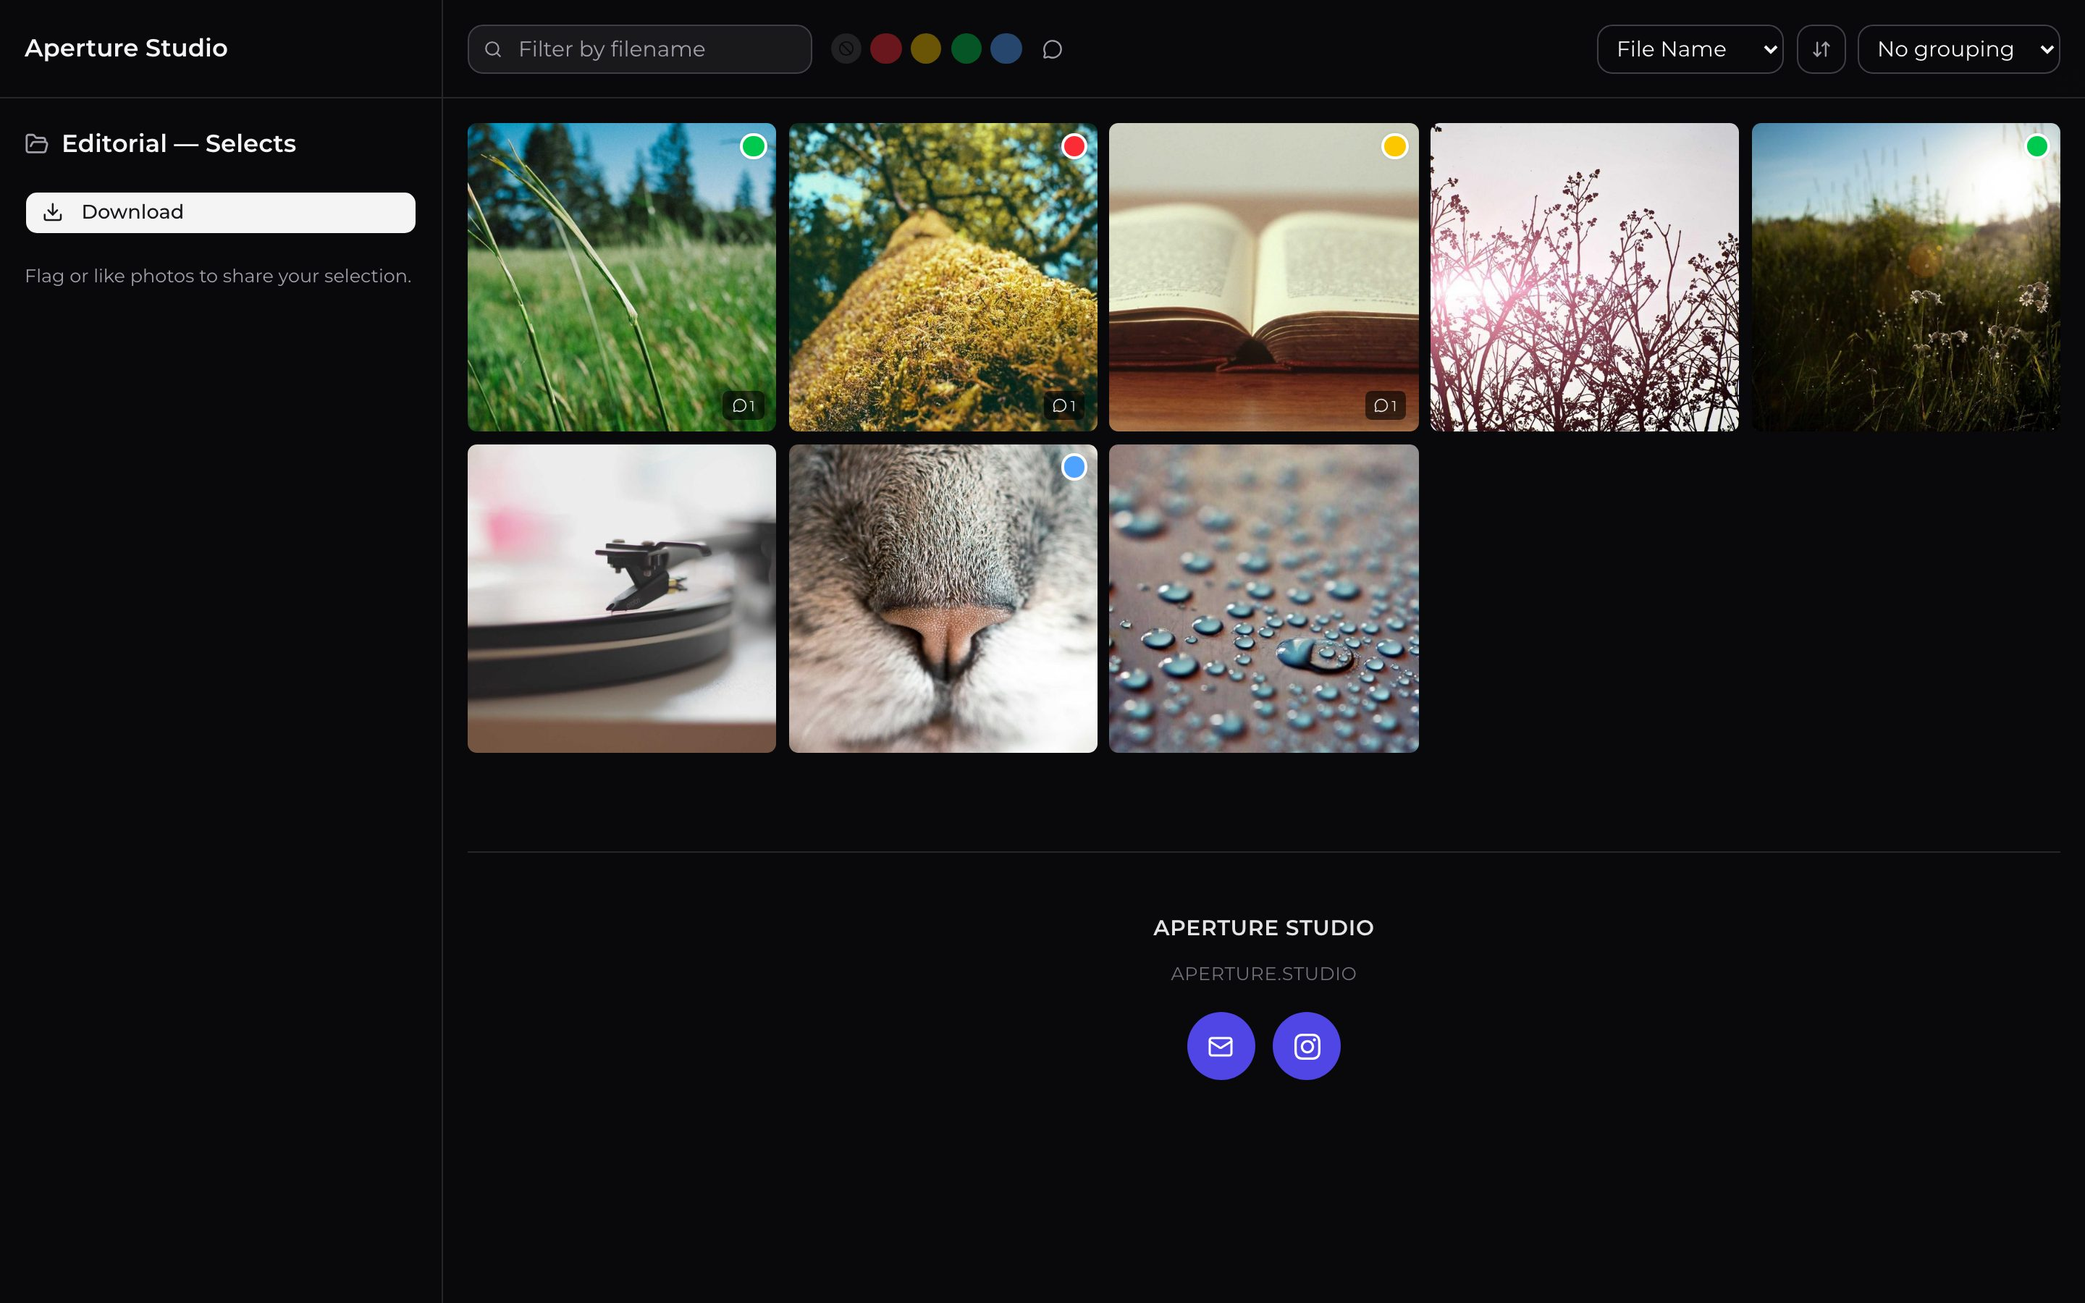
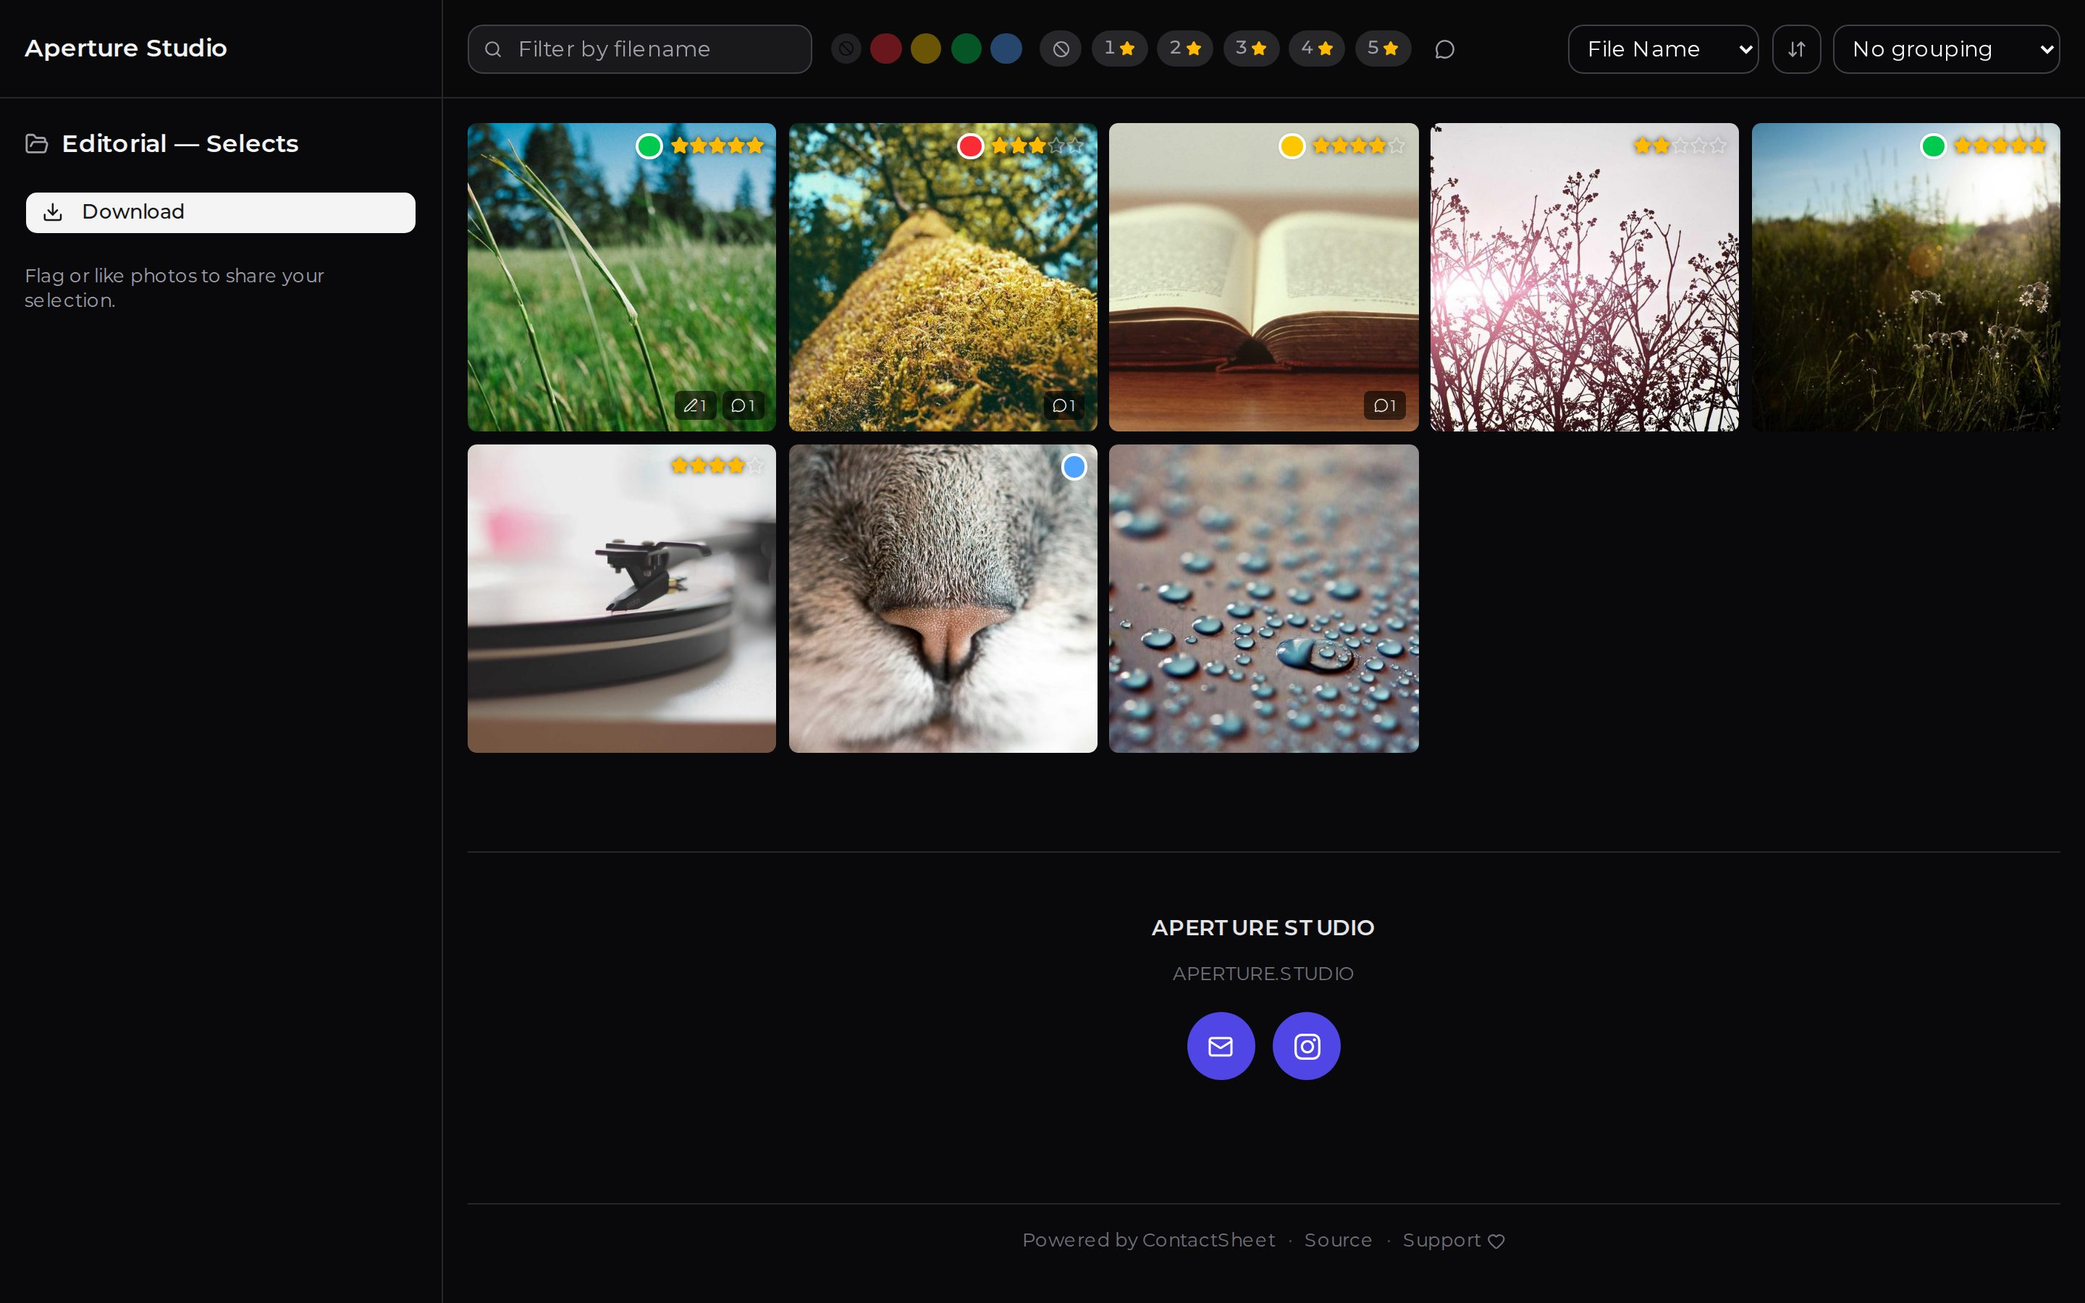
docs: refresh screenshots for v1.14 and update README highlights
- Re-capture all 12 scenes against the current UI and add three:
  13 analytics, 14 review lightbox (flags + stars, annotation, zoom),
  15 overview as list rows.
- Demo seed: rating style "both" with star ratings, a freehand
  annotation, IP logging on, camera-style file names, and 60 days of
  backdated activity so analytics shows real trends; only the review
  gallery carries the "New" marker.
- Demo ports overridable via DEMO_API_PORT / DEMO_WEB_PORT; stop() now
  takes down `next dev` with npm (own process group) instead of
  leaving it listening.
- README: new-activity marker and overview views, duplicate-filename
  uploads, large client uploads, watermark vs. downloads, analytics.

Claude-Session: https://claude.ai/code/session_01Mt1P5GrvZtBqV8ckNBeZAW

diff --git a/demo/seed_demo.py b/demo/seed_demo.py
@@ -13,9 +13,14 @@ Run:  backend/.venv/bin/python demo/seed_demo.py
 from __future__ import annotations
 
 import json
+import math
+import random
 import shutil
+import sqlite3
 import sys
 import time
+import uuid
+from datetime import datetime, timedelta, timezone
 
 import httpx
 
@@ -37,7 +42,12 @@ from _common import (  # noqa: E402
 
 def _assets(folder: str) -> list:
     files = sorted((ASSETS / folder).glob("*.jpg"))
-    return [("files", (f.name, f.read_bytes(), "image/jpeg")) for f in files]
+    prefix = manifest.FILENAME_PREFIX.get(folder, "IMG_")
+    start = 1000 + 37 * len(folder)  # arbitrary but stable "frame counter" per shoot
+    return [
+        ("files", (f"{prefix}{start + 3 * i:04d}.jpg", f.read_bytes(), "image/jpeg"))
+        for i, f in enumerate(files)
+    ]
 
 
 def _wait_for_processing(client: httpx.Client, gid: str, expected: int) -> None:
@@ -102,6 +112,8 @@ def _seed_collab(client: httpx.Client, spec: dict, state: dict) -> None:
     base = f"/api/public/g/{token}/images"
     for i, flag in collab.get("flags", {}).items():
         client.post(f"{base}/{img(i)}/flag", json={"flag": flag}).raise_for_status()
+    for i, stars in collab.get("ratings", {}).items():
+        client.post(f"{base}/{img(i)}/rate", json={"rating": stars}).raise_for_status()
     for reviewer, idxs in collab.get("likes", {}).items():
         for i in idxs:
             client.post(f"{base}/{img(i)}/like", json={"reviewer": reviewer}).raise_for_status()
@@ -110,7 +122,67 @@ def _seed_collab(client: httpx.Client, spec: dict, state: dict) -> None:
             f"{base}/{img(c['image'])}/comments",
             json={"author_name": c["author"], "text": c["text"]},
         ).raise_for_status()
+    for a in collab.get("annotations", []):
+        e = a["ellipse"]
+        points = [
+            {"x": round(e["cx"] + e["rx"] * math.cos(t), 4), "y": round(e["cy"] + e["ry"] * math.sin(t), 4)}
+            for t in (2 * math.pi * k / 48 for k in range(49))
+        ]
+        client.post(
+            f"{base}/{img(a['image'])}/comments",
+            json={
+                "author_name": a["author"],
+                "text": a["text"],
+                "anchor": {"type": "freehand", "points": points, "color": "#ef4444"},
+            },
+        ).raise_for_status()
     print(f"  collaboration seeded on '{spec['name']}'")
+
+
+def _seed_history(state: dict) -> None:
+    """Backdate a couple of months of plausible client activity straight into the demo DB (backend stopped),
+    so the analytics charts show a trend instead of a single spike on seed day. Deterministic."""
+    rng = random.Random(2024)
+    now = datetime.now(timezone.utc).replace(tzinfo=None)
+    rows = []
+    for key in manifest.HISTORY_GALLERIES:
+        g = state["galleries"][key]
+        weight = 3 if key == "editorial" else 1
+        for day in range(1, manifest.HISTORY_DAYS + 1):
+            # A slow upward drift plus a delivery spike ~10 days ago, with day-to-day noise.
+            drift = 0.9 + 0.4 * (1 - day / manifest.HISTORY_DAYS)
+            base = weight * (drift + 0.9 * math.exp(-((day - 10) ** 2) / 30))
+            for action, scale, author_pool in (
+                ("viewed", 2.0, ["Guest"]),
+                ("downloaded", 0.25, ["Guest"]),
+                ("flagged", 0.5, manifest.HISTORY_REVIEWERS),
+                ("liked", 0.6, manifest.HISTORY_REVIEWERS),
+                ("rated", 0.4, manifest.HISTORY_REVIEWERS),
+                ("commented", 0.15, manifest.HISTORY_REVIEWERS),
+            ):
+                if action not in ("viewed", "downloaded") and key != "editorial":
+                    continue
+                for _ in range(max(0, round(rng.gauss(base * scale, base * scale / 3)))):
+                    ts = now - timedelta(days=day, seconds=rng.randint(0, 86399))
+                    image_id = (
+                        rng.choice(g["image_ids"]) if action not in ("viewed", "downloaded") and g["image_ids"] else None
+                    )
+                    ip = f"198.51.100.{rng.randint(2, 250)}" if action in ("viewed", "downloaded") else None
+                    rows.append((str(uuid.uuid4()), g["id"], image_id, action, rng.choice(author_pool), None, ip,
+                                 ts.strftime("%Y-%m-%d %H:%M:%S.%f")))
+    con = sqlite3.connect(DATA / "demo.db")
+    with con:
+        con.executemany(
+            "INSERT INTO activities (id, gallery_id, image_id, action, author, meta, ip, created_at)"
+            " VALUES (?, ?, ?, ?, ?, ?, ?, ?)",
+            rows,
+        )
+        # Mark everything but the review gallery as already opened, so only it shows "New".
+        seen = (datetime.now(timezone.utc).replace(tzinfo=None) + timedelta(seconds=1)).strftime("%Y-%m-%d %H:%M:%S.%f")
+        ids = [state["galleries"][k]["id"] for k in manifest.SEEN_GALLERIES]
+        con.executemany("UPDATE galleries SET admin_seen_at = ? WHERE id = ?", [(seen, i) for i in ids])
+    con.close()
+    print(f"  {len(rows)} backdated activity rows written")
 
 
 def seed() -> None:
@@ -155,6 +227,7 @@ def main() -> None:
         seed()
     finally:
         stop(backend)
+    _seed_history(json.loads(STATE_FILE.read_text()))
     print("Seed complete; backend stopped.")
 
 

diff --git a/demo/manifest.py b/demo/manifest.py
@@ -19,6 +19,10 @@ SETTINGS = {
     "brand_display": "name_only",
     "accent_color": "#4f46e5",
     "accent_gradient": True,
+    # Show colour flags and 1–5 stars side by side in the review screenshots.
+    "rating_mode": "both",
+    # Views only count (and the analytics view tiles only light up) with IP logging on.
+    "activity_ip_logging": True,
     "footer_enabled": True,
     "footer": {
         "business_name": "Aperture Studio",
@@ -59,16 +63,25 @@ GALLERIES = [
             "color_flags_enabled": True,
             "likes_enabled": True,
             "comments_enabled": True,
+            "annotations_enabled": True,
         },
         # Collaboration content (references images by upload index). 3 comments total → matches
         # the comment badge on the gallery card.
         "collab": {
             "flags": {0: "green", 1: "red", 2: "yellow", 4: "green", 6: "blue"},
-            "likes": {"Mara Voss": [0, 2, 5, 7], "Jon Adler": [0, 1, 3]},
+            "ratings": {0: 5, 1: 3, 2: 4, 3: 2, 4: 5, 5: 4},
+            "likes": {"Mara Voss": [0, 2, 5], "Jon Adler": [0, 1, 3]},
             "comments": [
                 {"image": 0, "author": "Mara Voss", "text": "Love the contrast here — this is the select."},
                 {"image": 1, "author": "Jon Adler", "text": "Crop a touch tighter on the next pass?"},
                 {"image": 2, "author": "Mara Voss", "text": "Final pick for the cover."},
+            ],
+            # Freehand annotations: (image index, author, text, [(x, y), ...] in 0..1 fractions).
+            "annotations": [
+                {
+                    "image": 0, "author": "Jon Adler", "text": "Can we lift the shadows a little here?",
+                    "ellipse": {"cx": 0.32, "cy": 0.62, "rx": 0.12, "ry": 0.09},
+                },
             ],
         },
     },
@@ -94,4 +107,18 @@ SCENES = {
     "collaboration": "editorial",      # 09 collaboration review
     "footer": "coastal",               # 11 public footer
     "mobile": "coastal",               # 12 mobile gallery
+    "analytics": "editorial",          # 13 per-gallery analytics (+ 30 days of synthetic history)
+    "review_lightbox": "editorial",    # 14 review lightbox: flags + stars, annotation, zoom
 }
+
+# Synthetic, backdated activity history so the analytics charts have a shape. Written straight
+# into the demo DB after the API seed (the API only ever stamps "now"). Deterministic.
+# 60 days so the 30-day window has a previous period to compare against (plausible trend %).
+HISTORY_DAYS = 60
+HISTORY_GALLERIES = ["editorial", "coastal", "iceland", "studio"]
+HISTORY_REVIEWERS = REVIEWERS + ["Lena Brandt"]
+# Galleries the photographer has "opened" since their last client activity (no "New" marker).
+SEEN_GALLERIES = ["coastal", "iceland", "sessions", "studio", "location"]
+
+# Uploaded file names: camera-style instead of the asset pool's 00.jpg, 01.jpg, …
+FILENAME_PREFIX = {"editorial": "ED24_", "coastal": "CL_", "iceland": "ISL_", "studio": "STU_", "location": "LOC_"}

diff --git a/demo/capture_screenshots.py b/demo/capture_screenshots.py
@@ -1,10 +1,10 @@
 # SPDX-FileCopyrightText: 2026 Niels Franke
 # SPDX-License-Identifier: AGPL-3.0-or-later
-"""Recapture the 12 documentation screenshots against the seeded demo instance.
+"""Recapture the 15 documentation screenshots against the seeded demo instance.
 
 Launches the demo backend (:8099, against the already-seeded demo/.data) and a demo Next dev
 server (:3099, proxied to the demo backend via NEXT_PUBLIC_API_BASE), then drives Playwright
-(chromium) through the 12 scenes and writes docs/screenshots/*.jpg. Run `seed_demo.py` first.
+(chromium) through the 15 scenes and writes docs/screenshots/*.jpg. Run `seed_demo.py` first.
 
 Run:  backend/.venv/bin/python demo/capture_screenshots.py
 """
@@ -111,6 +111,16 @@ def run(state: dict) -> None:
             except Exception as e:
                 print(f"  ! 02: {e}")
 
+            # 15 — overview as list rows (the view switch persists as a setting → flip back after)
+            try:
+                page.get_by_role("button", name="Show as list").first.click()
+                page.wait_for_timeout(1200)
+                shot(page, "15-overview-list")
+                page.get_by_role("button", name="Show as grid").first.click()
+                page.wait_for_timeout(800)
+            except Exception as e:
+                print(f"  ! 15: {e}")
+
             # 03 — create gallery dialog
             try:
                 page.get_by_role("button", name="New Gallery").first.click()
@@ -137,6 +147,15 @@ def run(state: dict) -> None:
                 page.keyboard.press("Escape")
             except Exception as e:
                 print(f"  ! 10: {e}")
+
+            # 13 — instance analytics (30-day window over the seeded history)
+            try:
+                go("/admin/analytics")
+                page.get_by_text("Busiest galleries").first.wait_for()
+                page.wait_for_timeout(800)
+                shot(page, "13-analytics")
+            except Exception as e:
+                print(f"  ! 13: {e}")
 
             # 07 — admin settings (branding)
             try:
@@ -178,6 +197,18 @@ def run(state: dict) -> None:
             shot(page, "09-collaboration-review")
         except Exception as e:
             print(f"  ! 09: {e}")
+
+        # 14 — review lightbox: flags + stars, an annotation, the comment thread and the zoom slider
+        try:
+            page.locator("button:has(img)").first.click()
+            page.wait_for_timeout(1200)
+            page.get_by_role("button", name="Show annotations").first.click()
+            page.get_by_role("button", name="Comments").last.click()
+            page.wait_for_timeout(1200)
+            shot(page, "14-review-lightbox")
+            page.keyboard.press("Escape")
+        except Exception as e:
+            print(f"  ! 14: {e}")
 
         # 11 — branding footer (scroll to bottom, clip the footer)
         try:

diff --git a/demo/_common.py b/demo/_common.py
@@ -9,6 +9,7 @@ Everything runs against an **isolated** backend on port 8099 with its own data d
 from __future__ import annotations
 
 import os
+import signal
 import subprocess
 import time
 import urllib.request
@@ -25,8 +26,9 @@ DATA = DEMO_DIR / ".data"          # runtime DB + uploads (gitignored)
 STATE_FILE = DATA / "state.json"
 
 API_HOST = "127.0.0.1"
-API_PORT = 8099
-WEB_PORT = 3099
+# Override with DEMO_API_PORT / DEMO_WEB_PORT when 8099/3099 are taken on this machine.
+API_PORT = int(os.environ.get("DEMO_API_PORT", "8099"))
+WEB_PORT = int(os.environ.get("DEMO_WEB_PORT", "3099"))
 API_BASE = f"http://{API_HOST}:{API_PORT}"
 WEB_BASE = f"http://{API_HOST}:{WEB_PORT}"
 
@@ -114,6 +116,7 @@ def start_frontend() -> subprocess.Popen:
         ["npm", "run", "dev", "--", "--port", str(WEB_PORT)],
         cwd=WEBDIR,
         env=env,
+        start_new_session=True,  # own process group → stop() can take `next dev` down with npm
     )
     _wait_http(f"{WEB_BASE}/login", "frontend", timeout=180)
     return proc
@@ -136,8 +139,16 @@ def _wait_http(url: str, name: str, timeout: int = 45) -> None:
 def stop(proc: subprocess.Popen | None) -> None:
     if proc is None:
         return
-    proc.terminate()
+    # `npm run dev` doesn't forward SIGTERM to `next dev`; signal the whole group when it has one.
     try:
+        pgid = os.getpgid(proc.pid)
+    except ProcessLookupError:
+        return
+    own_group = pgid == proc.pid
+    try:
+        os.killpg(pgid, signal.SIGTERM) if own_group else proc.terminate()
         proc.wait(timeout=10)
     except subprocess.TimeoutExpired:
-        proc.kill()
+        os.killpg(pgid, signal.SIGKILL) if own_group else proc.kill()
+    except ProcessLookupError:
+        pass

diff --git a/README.md b/README.md
@@ -52,13 +52,15 @@ are very welcome.
 - **Client feedback** — color flags, 1–5 star ratings, or **both side by side** (an instance-wide choice), per-person likes, comments, and **freehand annotations** drawn right on a photo — with a zoom slider in the review lightbox so clients can check detail before deciding.
 - **Collections** — multi-select photos into named, downloadable sets; admin *and* clients can build them.
 - **Content search** *(optional)* — find photos by what's *in* them ("car at sunset"), in a gallery or across your whole library, via an opt-in on-device AI model. Without it, **All Photos** still browses everything and filters by name, gallery, and IPTC keywords.
-- **Client uploads** — optionally let visitors contribute photos, with an optional **approval queue**.
+- **Client uploads** — optionally let visitors contribute photos, with an optional **approval queue**; opt in per gallery to accept large originals and PSD/PSB/TIFF working files.
 - **Nested galleries** — organize shoots to any depth, with drag-and-drop reparenting and photo moves.
+- **An admin that tells you what changed** — galleries with client activity since your last visit are marked *New*; the overview switches between grid, compact and list, and folders show a mosaic of their sub-galleries' covers.
+- **Safe re-uploads** — uploading a filename that's already in the gallery asks *Replace / Keep both / Skip*; *Replace* keeps the photo's comments, ratings and cover status.
 - **Sharing controls** — friendly URL slugs, optional per-gallery passwords, and expiry dates.
 - **Downloads** — original-file download and gallery **ZIP** export (with a sub-gallery picker).
-- **Watermarks** — image or text overlays composited onto delivered photos.
+- **Watermarks** — image or text overlays composited onto delivered photos; while one is active, clean originals can't be downloaded (ZIPs included).
 - **Live updates** — comments, flags, likes, and new uploads appear in every open viewer in real time.
-- **Analytics** — a per-gallery and instance-wide dashboard for views, downloads, and client engagement over time.
+- **Analytics** — a per-gallery and instance-wide dashboard for views, downloads, and client engagement over 7 / 30 / 90 days, with trends, a reviewers table, and each gallery's review status.
 - **Notifications** — email, Pushover, ntfy, Discord, Telegram, Slack, or any [Apprise](https://github.com/caronc/apprise) URL.
 - **Video** — browser-playable MP4/MOV/WebM, streamed with seek support (no transcoding).
 - **Branding & PWA** — your logo, accent color, and a public footer; installable with a branding-aware app icon.

diff --git a/demo/README.md b/demo/README.md
@@ -12,6 +12,7 @@ the [Unsplash License](https://unsplash.com/license)); see `assets/CREDITS.md`.
 Everything runs on **ports 8099 (backend) / 3099 (frontend)** against **`demo/.data/`** (its own
 SQLite DB + uploads) and a throwaway frontend copy in **`demo/.web/`** (its own `.next`). It never
 reads or writes the developer's real instance on `:8000`/`:3000` or `frontend/.next`.
+If those ports are taken, override them: `DEMO_API_PORT=8399 DEMO_WEB_PORT=3399 bash demo/run.sh`.
 
 ## Regenerate the screenshots
 
@@ -30,7 +31,7 @@ Output overwrites `docs/screenshots/*.jpg` (desktop 2880×1800, mobile 1170×253
 | `fetch_assets.py` | Download a candidate photo pool from Lorem Picsum into `assets/_pool/` (+ review montage). |
 | `select_assets.py` | Promote the hand-picked candidates into `assets/<group>/` and regenerate `assets/CREDITS.md`. |
 | `seed_demo.py` | Wipe `demo/.data`, migrate, launch the demo backend, and build the instance via the REST API. Writes `demo/.data/state.json`. |
-| `capture_screenshots.py` | Launch the demo backend + an isolated frontend, then drive Playwright (chromium) through the 12 scenes. |
+| `capture_screenshots.py` | Launch the demo backend + an isolated frontend, then drive Playwright (chromium) through the 15 scenes. |
 | `run.sh` | Orchestrates seed → capture. |
 
 ## Requirements
